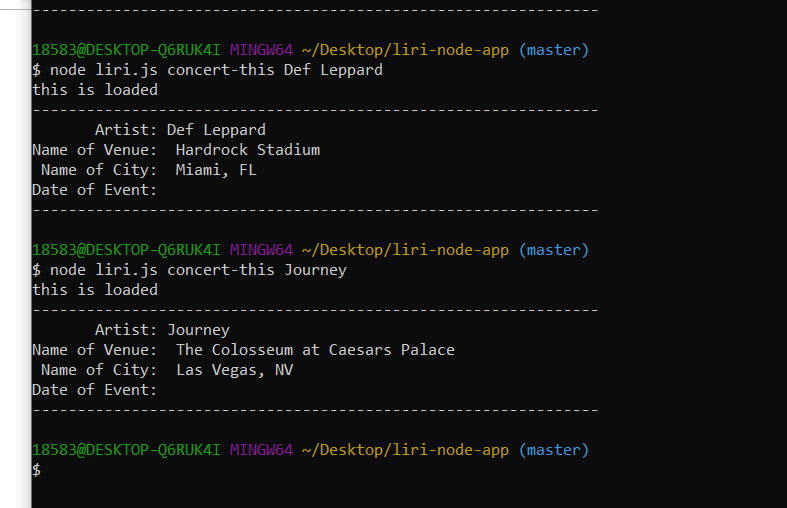
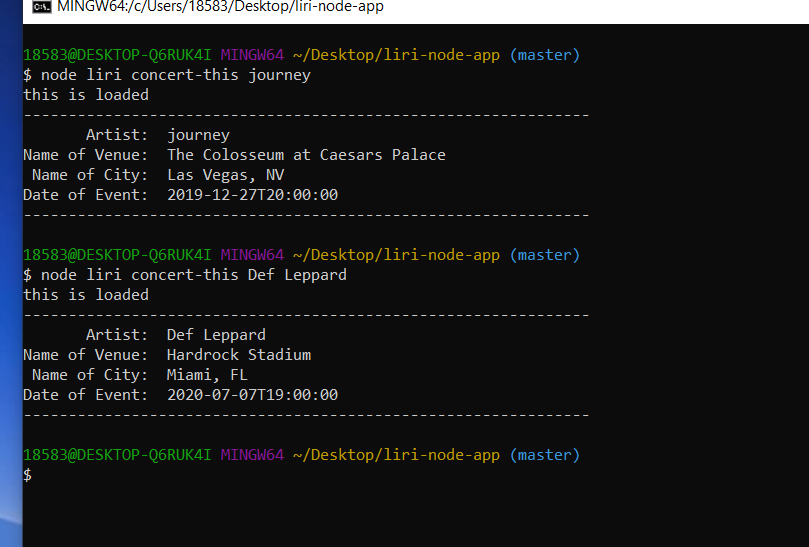
added date Concert info sans moment + screenshot

Changed region(s): [[0.0, 0.0, 1.0, 1.0]]

diff --git a/liri.js b/liri.js
@@ -58,12 +58,13 @@ function concert(){
     axios.get(queryUrl)
     .then(function(response){
         //var concertR = response.data[0];
+        //console.log(response.data[0].datetime);
         console.log("---------------------------------------------------------------");
-        console.log("       Artist: "+value);
+        console.log("       Artist:  "+value);
         console.log("Name of Venue:  "+response.data[0].venue.name);
         console.log(" Name of City:  "+response.data[0].venue.city +", " + response.data[0].venue.region);
         // var eventDate = moment(response.data[0].datetime).format('MM/DD/YYYY');
-         console.log("Date of Event: ");    //+eventDate);
+         console.log("Date of Event:  "+response.data[0].datetime);    //+eventDate);
         console.log("---------------------------------------------------------------");
         // for (var i = 0; i<response.data[i]; i++){
         //     console.log(response.data[i].venue.name);
